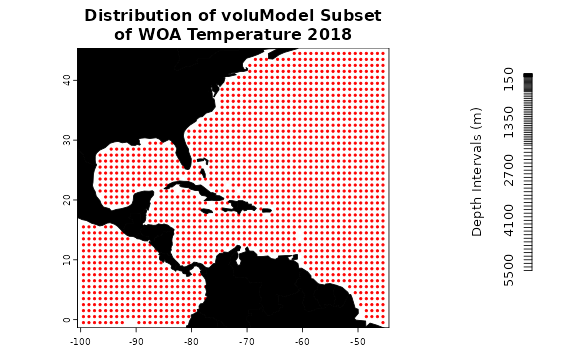
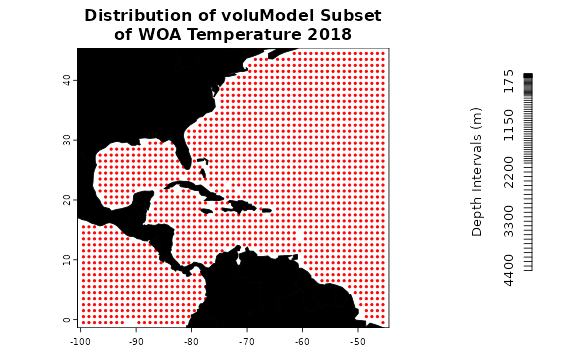
Deploying to gh-pages from @ hannahlowens/voluModel@53969cd89ce091f5b6bab9e4a05de719ce7b85b1 🚀

Changed region(s): [[0.8645, 0.1833, 0.9262, 0.7333], [0.8645, 0.7639, 0.8954, 0.7944]]

diff --git a/articles/b_RasterProcessing.html b/articles/b_RasterProcessing.html
@@ -100,7 +100,7 @@ Owens</h4>
                         <h4 data-toc-skip class="author">Carsten
 Rahbek</h4>
             
-            <h4 data-toc-skip class="date">2025-06-24</h4>
+            <h4 data-toc-skip class="date">2025-07-09</h4>
       
       <small class="dont-index">Source: <a href="https://github.com/hannahlowens/voluModel/blob/main/vignettes/b_RasterProcessing.Rmd" class="external-link"><code>vignettes/b_RasterProcessing.Rmd</code></a></small>
       <div class="hidden name"><code>b_RasterProcessing.Rmd</code></div>
@@ -207,14 +207,7 @@ structures.</p>
 <span><span class="co">## 4    NaN    NaN    NaN    NaN    NaN    NaN    NaN    NaN    NaN    NaN    NaN</span></span>
 <span><span class="co">## 5    NaN    NaN    NaN    NaN    NaN    NaN    NaN    NaN    NaN    NaN    NaN</span></span>
 <span><span class="co">## 6    NaN    NaN    NaN    NaN    NaN    NaN    NaN    NaN    NaN    NaN    NaN</span></span>
-<span><span class="co">##   d4400M d4500M d4600M d4700M d4800M d4900M d5000M d5100M d5200M d5300M d5400M</span></span>
-<span><span class="co">## 1    NaN    NaN    NaN    NaN    NaN    NaN    NaN    NaN    NaN    NaN    NaN</span></span>
-<span><span class="co">## 2    NaN    NaN    NaN    NaN    NaN    NaN    NaN    NaN    NaN    NaN    NaN</span></span>
-<span><span class="co">## 3    NaN    NaN    NaN    NaN    NaN    NaN    NaN    NaN    NaN    NaN    NaN</span></span>
-<span><span class="co">## 4    NaN    NaN    NaN    NaN    NaN    NaN    NaN    NaN    NaN    NaN    NaN</span></span>
-<span><span class="co">## 5    NaN    NaN    NaN    NaN    NaN    NaN    NaN    NaN    NaN    NaN    NaN</span></span>
-<span><span class="co">## 6    NaN    NaN    NaN    NaN    NaN    NaN    NaN    NaN    NaN    NaN    NaN</span></span>
-<span><span class="co">##   d5500M</span></span>
+<span><span class="co">##   d4400M</span></span>
 <span><span class="co">## 1    NaN</span></span>
 <span><span class="co">## 2    NaN</span></span>
 <span><span class="co">## 3    NaN</span></span>
@@ -271,7 +264,7 @@ using a uniform, high-contrast aesthetic.</p>
 <span></span>
 <span><span class="va">p2</span> <span class="op">&lt;-</span> <span class="fu"><a href="../reference/oneRasterPlot.html">oneRasterPlot</a></span><span class="op">(</span><span class="va">temperatureBottom</span>,land <span class="op">=</span> <span class="va">land</span>, landCol <span class="op">=</span> <span class="st">"black"</span>, </span>
 <span>              title <span class="op">=</span> <span class="st">"Bottom Temperature (C)"</span><span class="op">)</span></span></code></pre></div>
-<p><img src="TemperatureTopBottom.png" width="100%" height="100%"></p>
+<p><img src="b_RasterProcessing_files/figure-html/temperature%20processing-1.png"><!-- --></p>
 </div>
 <div class="section level2">
 <h2 id="interpolation">Interpolation<a class="anchor" aria-label="anchor" href="#interpolation"></a>
@@ -287,7 +280,7 @@ dense as for temperature).</p>
 <span>                  package <span class="op">=</span> <span class="st">"voluModel"</span><span class="op">)</span>,</span>
 <span>      exdir <span class="op">=</span> <span class="fu"><a href="https://rdrr.io/r/base/paste.html" class="external-link">paste0</a></span><span class="op">(</span><span class="va">td</span>, <span class="st">"/oxygen"</span><span class="op">)</span>, junkpaths <span class="op">=</span> <span class="cn">T</span><span class="op">)</span></span>
 <span></span>
-<span><span class="va">oxygen</span> <span class="op">&lt;-</span> <span class="fu"><a href="https://rspatial.github.io/terra/reference/vect.html" class="external-link">vect</a></span><span class="op">(</span><span class="fu"><a href="https://rdrr.io/r/base/paste.html" class="external-link">paste0</a></span><span class="op">(</span><span class="va">td</span>, <span class="st">"/oxygen/woa18_all_A00mn01_cropped.shp"</span><span class="op">)</span><span class="op">)</span></span>
+<span><span class="va">oxygen</span> <span class="op">&lt;-</span> <span class="fu"><a href="https://rspatial.github.io/terra/reference/vect.html" class="external-link">vect</a></span><span class="op">(</span><span class="fu"><a href="https://rdrr.io/r/base/paste.html" class="external-link">paste0</a></span><span class="op">(</span><span class="va">td</span>, <span class="st">"/oxygen/woa18_all_A00mn01_cropped.shp"</span><span class="op">)</span><span class="op">)</span><span class="op">[</span>,<span class="fl">1</span><span class="op">:</span><span class="fl">70</span><span class="op">]</span> <span class="co"># Only taking uppermost 70 depth layers, for speed</span></span>
 <span></span>
 <span><span class="fu"><a href="https://rspatial.github.io/terra/reference/plot.html" class="external-link">plot</a></span><span class="op">(</span><span class="va">oxygen</span>, main <span class="op">=</span> <span class="st">"Distribution of voluModel subset of WOA AOU 2018"</span>,</span>
 <span>     pch <span class="op">=</span> <span class="fl">20</span>, col <span class="op">=</span> <span class="st">"red"</span>, xlim <span class="op">=</span> <span class="va">ext</span><span class="op">[</span><span class="fl">1</span><span class="op">:</span><span class="fl">2</span><span class="op">]</span>, ylim <span class="op">=</span> <span class="va">ext</span><span class="op">[</span><span class="fl">3</span><span class="op">:</span><span class="fl">4</span><span class="op">]</span>, cex <span class="op">=</span> <span class="fl">.6</span><span class="op">)</span></span>
@@ -307,29 +300,121 @@ ok for your data, maybe it won’t. It depends on the data.</p>
 <span><span class="va">oxygen</span> <span class="op">&lt;-</span> <span class="fu"><a href="https://rspatial.github.io/terra/reference/rasterize.html" class="external-link">rasterize</a></span><span class="op">(</span>x <span class="op">=</span> <span class="va">oxygen</span>, y <span class="op">=</span> <span class="va">template</span>,</span>
 <span>                   field <span class="op">=</span> <span class="fu"><a href="https://rspatial.github.io/terra/reference/names.html" class="external-link">names</a></span><span class="op">(</span><span class="va">oxygen</span><span class="op">)</span><span class="op">)</span> <span class="co">#Uses same raster template as temperature</span></span>
 <span></span>
-<span><span class="kw">for</span> <span class="op">(</span><span class="va">i</span> <span class="kw">in</span> <span class="fl">1</span><span class="op">:</span><span class="fu"><a href="https://rspatial.github.io/terra/reference/dimensions.html" class="external-link">nlyr</a></span><span class="op">(</span><span class="va">oxygen</span><span class="op">)</span><span class="op">)</span><span class="op">{</span></span>
-<span>  <span class="va">oxygen</span><span class="op">[[</span><span class="va">i</span><span class="op">]</span><span class="op">]</span> <span class="op">&lt;-</span> <span class="fu"><a href="../reference/interpolateRaster.html">interpolateRaster</a></span><span class="op">(</span><span class="va">oxygen</span><span class="op">[[</span><span class="va">i</span><span class="op">]</span><span class="op">]</span>, lon.lat <span class="op">=</span> <span class="cn">T</span>, fast <span class="op">=</span> <span class="cn">T</span>, aRange <span class="op">=</span> <span class="fl">5</span><span class="op">)</span> <span class="co">#Thin plate spline interpolation</span></span>
+<span><span class="kw">for</span> <span class="op">(</span><span class="va">i</span> <span class="kw">in</span> <span class="fl">1</span><span class="op">:</span><span class="fu"><a href="https://rspatial.github.io/terra/reference/dimensions.html" class="external-link">nlyr</a></span><span class="op">(</span><span class="va">oxygen</span><span class="op">)</span><span class="op">)</span><span class="op">{</span> </span>
+<span>  <span class="va">oxygen</span><span class="op">[[</span><span class="va">i</span><span class="op">]</span><span class="op">]</span> <span class="op">&lt;-</span> <span class="fu"><a href="../reference/interpolateRaster.html">interpolateRaster</a></span><span class="op">(</span><span class="va">oxygen</span><span class="op">[[</span><span class="va">i</span><span class="op">]</span><span class="op">]</span>, lon.lat <span class="op">=</span> <span class="cn">T</span>, fast <span class="op">=</span> <span class="cn">T</span>, aRange <span class="op">=</span> <span class="fl">30</span><span class="op">)</span> <span class="co">#Thin plate spline interpolation</span></span>
 <span>  <span class="va">oxygen</span><span class="op">[[</span><span class="va">i</span><span class="op">]</span><span class="op">]</span> <span class="op">&lt;-</span> <span class="fu"><a href="https://rspatial.github.io/terra/reference/crop.html" class="external-link">crop</a></span><span class="op">(</span><span class="fu"><a href="https://rspatial.github.io/terra/reference/mask.html" class="external-link">mask</a></span><span class="op">(</span>x <span class="op">=</span> <span class="va">oxygen</span><span class="op">[[</span><span class="va">i</span><span class="op">]</span><span class="op">]</span>, </span>
 <span>                           mask <span class="op">=</span> <span class="va">temperature</span><span class="op">[[</span><span class="va">i</span><span class="op">]</span><span class="op">]</span><span class="op">)</span>, </span>
 <span>                      <span class="va">temperature</span><span class="op">[[</span><span class="va">i</span><span class="op">]</span><span class="op">]</span><span class="op">)</span></span>
-<span><span class="op">}</span></span>
-<span></span>
-<span><span class="co"># Change names to match tempT</span></span>
-<span><span class="fu"><a href="https://rspatial.github.io/terra/reference/names.html" class="external-link">names</a></span><span class="op">(</span><span class="va">oxygen</span><span class="op">)</span> <span class="op">&lt;-</span> <span class="va">envtNames</span></span></code></pre></div>
+<span><span class="op">}</span></span></code></pre></div>
+<pre><code><span><span class="co">## Warning: </span></span>
+<span><span class="co">## Grid searches over lambda (nugget and sill variances) with  minima at the endpoints: </span></span>
+<span><span class="co">##   (GCV) Generalized Cross-Validation </span></span>
+<span><span class="co">##    minimum at  right endpoint  lambda  =  0.06491755 (eff. df= 110.2 )</span></span></code></pre>
+<pre><code><span><span class="co">## Warning: </span></span>
+<span><span class="co">## Grid searches over lambda (nugget and sill variances) with  minima at the endpoints: </span></span>
+<span><span class="co">##   (GCV) Generalized Cross-Validation </span></span>
+<span><span class="co">##    minimum at  right endpoint  lambda  =  0.06660728 (eff. df= 105.45 )</span></span></code></pre>
+<pre><code><span><span class="co">## Warning: </span></span>
+<span><span class="co">## Grid searches over lambda (nugget and sill variances) with  minima at the endpoints: </span></span>
+<span><span class="co">##   (GCV) Generalized Cross-Validation </span></span>
+<span><span class="co">##    minimum at  right endpoint  lambda  =  0.0655869 (eff. df= 107.35 )</span></span>
+<span><span class="co">## Warning: </span></span>
+<span><span class="co">## Grid searches over lambda (nugget and sill variances) with  minima at the endpoints: </span></span>
+<span><span class="co">##   (GCV) Generalized Cross-Validation </span></span>
+<span><span class="co">##    minimum at  right endpoint  lambda  =  0.06730784 (eff. df= 97.84996 )</span></span></code></pre>
+<pre><code><span><span class="co">## Warning: </span></span>
+<span><span class="co">## Grid searches over lambda (nugget and sill variances) with  minima at the endpoints: </span></span>
+<span><span class="co">##   (GCV) Generalized Cross-Validation </span></span>
+<span><span class="co">##    minimum at  right endpoint  lambda  =  0.06825791 (eff. df= 94.05001 )</span></span>
+<span><span class="co">## Warning: </span></span>
+<span><span class="co">## Grid searches over lambda (nugget and sill variances) with  minima at the endpoints: </span></span>
+<span><span class="co">##   (GCV) Generalized Cross-Validation </span></span>
+<span><span class="co">##    minimum at  right endpoint  lambda  =  0.06692045 (eff. df= 100.7 )</span></span></code></pre>
+<pre><code><span><span class="co">## Warning: </span></span>
+<span><span class="co">## Grid searches over lambda (nugget and sill variances) with  minima at the endpoints: </span></span>
+<span><span class="co">##   (GCV) Generalized Cross-Validation </span></span>
+<span><span class="co">##    minimum at  right endpoint  lambda  =  0.06908389 (eff. df= 92.14998 )</span></span>
+<span><span class="co">## Warning: </span></span>
+<span><span class="co">## Grid searches over lambda (nugget and sill variances) with  minima at the endpoints: </span></span>
+<span><span class="co">##   (GCV) Generalized Cross-Validation </span></span>
+<span><span class="co">##    minimum at  right endpoint  lambda  =  0.06534119 (eff. df= 106.4 )</span></span>
+<span><span class="co">## Warning: </span></span>
+<span><span class="co">## Grid searches over lambda (nugget and sill variances) with  minima at the endpoints: </span></span>
+<span><span class="co">##   (GCV) Generalized Cross-Validation </span></span>
+<span><span class="co">##    minimum at  right endpoint  lambda  =  0.06698453 (eff. df= 101.65 )</span></span></code></pre>
+<div class="sourceCode" id="cb13"><pre class="downlit sourceCode r">
+<code class="sourceCode R"><span><span class="co"># Change names to match tempT</span></span>
+<span><span class="fu"><a href="https://rspatial.github.io/terra/reference/names.html" class="external-link">names</a></span><span class="op">(</span><span class="va">oxygen</span><span class="op">)</span> <span class="op">&lt;-</span> <span class="va">envtNames</span><span class="op">[</span><span class="fl">1</span><span class="op">:</span><span class="fl">70</span><span class="op">]</span></span></code></pre></div>
 <p>Some environmental data rasters may also look “patchy”, possibly as
 an artifact of uneven sampling. If you are confident that there should
 be a strong spatial correlation in a data layer that looks “patchy”, you
 can also statistically smooth it, again using <code>TPS()</code>, like
 this:</p>
-<div class="sourceCode" id="cb8"><pre class="downlit sourceCode r">
+<div class="sourceCode" id="cb14"><pre class="downlit sourceCode r">
 <code class="sourceCode R"><span><span class="co"># Smoothing tempO and saving</span></span>
 <span><span class="va">oxygenSmooth</span> <span class="op">&lt;-</span> <span class="va">oxygen</span></span>
 <span><span class="kw">for</span> <span class="op">(</span><span class="va">i</span> <span class="kw">in</span> <span class="fl">1</span><span class="op">:</span><span class="fu"><a href="https://rspatial.github.io/terra/reference/dimensions.html" class="external-link">nlyr</a></span><span class="op">(</span><span class="va">oxygenSmooth</span><span class="op">)</span><span class="op">)</span><span class="op">{</span></span>
 <span>  <span class="va">oxygenSmooth</span><span class="op">[[</span><span class="va">i</span><span class="op">]</span><span class="op">]</span> <span class="op">&lt;-</span> <span class="fu"><a href="../reference/smoothRaster.html">smoothRaster</a></span><span class="op">(</span><span class="va">oxygenSmooth</span><span class="op">[[</span><span class="va">i</span><span class="op">]</span><span class="op">]</span>, lon.lat <span class="op">=</span> <span class="cn">T</span><span class="op">)</span> <span class="co">#Thin plate spline interpolation</span></span>
 <span>  <span class="va">oxygenSmooth</span><span class="op">[[</span><span class="va">i</span><span class="op">]</span><span class="op">]</span> <span class="op">&lt;-</span> <span class="fu"><a href="https://rspatial.github.io/terra/reference/crop.html" class="external-link">crop</a></span><span class="op">(</span><span class="fu"><a href="https://rspatial.github.io/terra/reference/mask.html" class="external-link">mask</a></span><span class="op">(</span>x <span class="op">=</span> <span class="va">oxygenSmooth</span><span class="op">[[</span><span class="va">i</span><span class="op">]</span><span class="op">]</span>, mask <span class="op">=</span> <span class="va">temperature</span><span class="op">[[</span><span class="va">i</span><span class="op">]</span><span class="op">]</span><span class="op">)</span>, <span class="va">temperature</span><span class="op">[[</span><span class="va">i</span><span class="op">]</span><span class="op">]</span><span class="op">)</span></span>
-<span><span class="op">}</span></span>
-<span></span>
-<span><span class="co"># Change names to match tempT and save</span></span>
+<span><span class="op">}</span></span></code></pre></div>
+<pre><code><span><span class="co">## Warning: </span></span>
+<span><span class="co">## Grid searches over lambda (nugget and sill variances) with  minima at the endpoints: </span></span>
+<span><span class="co">##   (GCV) Generalized Cross-Validation </span></span>
+<span><span class="co">##    minimum at  right endpoint  lambda  =  0.06244986 (eff. df= 122.55 )</span></span>
+<span><span class="co">## Warning: </span></span>
+<span><span class="co">## Grid searches over lambda (nugget and sill variances) with  minima at the endpoints: </span></span>
+<span><span class="co">##   (GCV) Generalized Cross-Validation </span></span>
+<span><span class="co">##    minimum at  right endpoint  lambda  =  0.06326617 (eff. df= 114.0074 )</span></span>
+<span><span class="co">## Warning: </span></span>
+<span><span class="co">## Grid searches over lambda (nugget and sill variances) with  minima at the endpoints: </span></span>
+<span><span class="co">##   (GCV) Generalized Cross-Validation </span></span>
+<span><span class="co">##    minimum at  right endpoint  lambda  =  0.06326617 (eff. df= 114.0074 )</span></span>
+<span><span class="co">## Warning: </span></span>
+<span><span class="co">## Grid searches over lambda (nugget and sill variances) with  minima at the endpoints: </span></span>
+<span><span class="co">##   (GCV) Generalized Cross-Validation </span></span>
+<span><span class="co">##    minimum at  right endpoint  lambda  =  0.06373437 (eff. df= 113.05 )</span></span>
+<span><span class="co">## Warning: </span></span>
+<span><span class="co">## Grid searches over lambda (nugget and sill variances) with  minima at the endpoints: </span></span>
+<span><span class="co">##   (GCV) Generalized Cross-Validation </span></span>
+<span><span class="co">##    minimum at  right endpoint  lambda  =  0.06373437 (eff. df= 113.05 )</span></span>
+<span><span class="co">## Warning: </span></span>
+<span><span class="co">## Grid searches over lambda (nugget and sill variances) with  minima at the endpoints: </span></span>
+<span><span class="co">##   (GCV) Generalized Cross-Validation </span></span>
+<span><span class="co">##    minimum at  right endpoint  lambda  =  0.06463537 (eff. df= 111.15 )</span></span>
+<span><span class="co">## Warning: </span></span>
+<span><span class="co">## Grid searches over lambda (nugget and sill variances) with  minima at the endpoints: </span></span>
+<span><span class="co">##   (GCV) Generalized Cross-Validation </span></span>
+<span><span class="co">##    minimum at  right endpoint  lambda  =  0.06463537 (eff. df= 111.15 )</span></span>
+<span><span class="co">## Warning: </span></span>
+<span><span class="co">## Grid searches over lambda (nugget and sill variances) with  minima at the endpoints: </span></span>
+<span><span class="co">##   (GCV) Generalized Cross-Validation </span></span>
+<span><span class="co">##    minimum at  right endpoint  lambda  =  0.06463537 (eff. df= 111.15 )</span></span>
+<span><span class="co">## Warning: </span></span>
+<span><span class="co">## Grid searches over lambda (nugget and sill variances) with  minima at the endpoints: </span></span>
+<span><span class="co">##   (GCV) Generalized Cross-Validation </span></span>
+<span><span class="co">##    minimum at  right endpoint  lambda  =  0.06463537 (eff. df= 111.15 )</span></span>
+<span><span class="co">## Warning: </span></span>
+<span><span class="co">## Grid searches over lambda (nugget and sill variances) with  minima at the endpoints: </span></span>
+<span><span class="co">##   (GCV) Generalized Cross-Validation </span></span>
+<span><span class="co">##    minimum at  right endpoint  lambda  =  0.06508891 (eff. df= 110.2 )</span></span>
+<span><span class="co">## Warning: </span></span>
+<span><span class="co">## Grid searches over lambda (nugget and sill variances) with  minima at the endpoints: </span></span>
+<span><span class="co">##   (GCV) Generalized Cross-Validation </span></span>
+<span><span class="co">##    minimum at  right endpoint  lambda  =  0.06520346 (eff. df= 109.25 )</span></span>
+<span><span class="co">## Warning: </span></span>
+<span><span class="co">## Grid searches over lambda (nugget and sill variances) with  minima at the endpoints: </span></span>
+<span><span class="co">##   (GCV) Generalized Cross-Validation </span></span>
+<span><span class="co">##    minimum at  right endpoint  lambda  =  0.06521743 (eff. df= 108.2996 )</span></span>
+<span><span class="co">## Warning: </span></span>
+<span><span class="co">## Grid searches over lambda (nugget and sill variances) with  minima at the endpoints: </span></span>
+<span><span class="co">##   (GCV) Generalized Cross-Validation </span></span>
+<span><span class="co">##    minimum at  right endpoint  lambda  =  0.06514298 (eff. df= 107.3498 )</span></span>
+<span><span class="co">## Warning: </span></span>
+<span><span class="co">## Grid searches over lambda (nugget and sill variances) with  minima at the endpoints: </span></span>
+<span><span class="co">##   (GCV) Generalized Cross-Validation </span></span>
+<span><span class="co">##    minimum at  right endpoint  lambda  =  0.0654606 (eff. df= 106.4 )</span></span></code></pre>
+<div class="sourceCode" id="cb16"><pre class="downlit sourceCode r">
+<code class="sourceCode R"><span><span class="co"># Change names to match tempT and save</span></span>
 <span><span class="fu"><a href="https://rspatial.github.io/terra/reference/names.html" class="external-link">names</a></span><span class="op">(</span><span class="va">oxygenSmooth</span><span class="op">)</span> <span class="op">&lt;-</span> <span class="fu"><a href="https://rspatial.github.io/terra/reference/names.html" class="external-link">names</a></span><span class="op">(</span><span class="va">oxygen</span><span class="op">)</span></span>
 <span><span class="va">oxygenSmooth</span> <span class="op">&lt;-</span> <span class="va">oxygenSmooth</span></span>
 <span></span>
@@ -338,14 +423,14 @@ this:</p>
 <span>              title<span class="op">=</span> <span class="st">"Surface Apparent Oxygen Utilization (µmol/kg),\ninterpolated"</span><span class="op">)</span></span>
 <span><span class="va">p4</span> <span class="op">&lt;-</span> <span class="fu"><a href="../reference/oneRasterPlot.html">oneRasterPlot</a></span><span class="op">(</span><span class="va">oxygenSmooth</span><span class="op">[[</span><span class="fl">1</span><span class="op">]</span><span class="op">]</span>, land <span class="op">=</span> <span class="va">land</span>, landCol <span class="op">=</span> <span class="st">"black"</span>,</span>
 <span>     title <span class="op">=</span> <span class="st">"Bottom Apparent Oxygen Utilization (µmol/kg),\ninterpolated and smoothed"</span><span class="op">)</span></span></code></pre></div>
-<p><img src="AOUInterpAndSmooth.png" width="100%" height="100%"></p>
+<p><img src="b_RasterProcessing_files/figure-html/smoothing%20oxygen-1.png"><!-- --></p>
 </div>
 <div class="section level2">
 <h2 id="tidying-up">Tidying up<a class="anchor" aria-label="anchor" href="#tidying-up"></a>
 </h2>
 <p>Last, we need to close the temporary directory we opened when we
 opened the data.</p>
-<div class="sourceCode" id="cb9"><pre class="downlit sourceCode r">
+<div class="sourceCode" id="cb17"><pre class="downlit sourceCode r">
 <code class="sourceCode R"><span><span class="fu"><a href="https://rdrr.io/r/base/unlink.html" class="external-link">unlink</a></span><span class="op">(</span><span class="va">td</span>, recursive <span class="op">=</span> <span class="cn">T</span><span class="op">)</span></span></code></pre></div>
 </div>
 <div class="section level2">

diff --git a/articles/a_Introduction.html b/articles/a_Introduction.html
@@ -101,7 +101,7 @@ Owens</h4>
                         <h4 data-toc-skip class="author">Carsten
 Rahbek</h4>
             
-            <h4 data-toc-skip class="date">2025-06-24</h4>
+            <h4 data-toc-skip class="date">2025-07-09</h4>
       
       <small class="dont-index">Source: <a href="https://github.com/hannahlowens/voluModel/blob/main/vignettes/a_Introduction.Rmd" class="external-link"><code>vignettes/a_Introduction.Rmd</code></a></small>
       <div class="hidden name"><code>a_Introduction.Rmd</code></div>
@@ -204,7 +204,7 @@ make it more space-efficient.</p>
 <span></span>
 <span><span class="va">p2</span> <span class="op">&lt;-</span> <span class="fu"><a href="../reference/oneRasterPlot.html">oneRasterPlot</a></span><span class="op">(</span><span class="va">temperatureBottom</span>,land <span class="op">=</span> <span class="va">land</span>, landCol <span class="op">=</span> <span class="st">"black"</span>, </span>
 <span>              title <span class="op">=</span> <span class="st">"Bottom Temperature (C)"</span><span class="op">)</span></span></code></pre></div>
-<p><img src="TemperatureTopBottom.png" width="100%" height="100%"></p>
+<p><img src="a_Introduction_files/figure-html/plotting%20temperature-1.png"><!-- --></p>
 <p>The AOU dataset has been interpolated and smoothed using a thin plate
 spline algorithm. For more details on how to process environmental data,
 see <a href="https://hannahlowens.github.io/voluModel/articles/b_RasterProcessing.html" class="external-link">the
@@ -223,7 +223,7 @@ raster data tutorial</a>. First, we load the data.</p>
 <span>              title<span class="op">=</span> <span class="st">"Surface Apparent Oxygen Utilization (µmol/kg),\ninterpolated and smoothed"</span><span class="op">)</span></span>
 <span><span class="va">p4</span> <span class="op">&lt;-</span> <span class="fu"><a href="../reference/oneRasterPlot.html">oneRasterPlot</a></span><span class="op">(</span><span class="va">oxygenBottom</span>, land <span class="op">=</span> <span class="va">land</span>, landCol <span class="op">=</span> <span class="st">"black"</span>,</span>
 <span>     title <span class="op">=</span> <span class="st">"Bottom Apparent Oxygen Utilization (µmol/kg),\ninterpolated and smoothed"</span><span class="op">)</span></span></code></pre></div>
-<p><img src="OxygenTopBottom.png" width="100%" height="100%"></p>
+<p><img src="a_Introduction_files/figure-html/oxygen%20plotting-1.png"><!-- --></p>
 <p>Finally, we get data layer indices for each occurrence point by
 matching their depth of sampling to the appropriate environmental layer
 name.</p>

diff --git a/articles/e_GLMWorkflow.html b/articles/e_GLMWorkflow.html
@@ -100,7 +100,7 @@ Owens</h4>
                         <h4 data-toc-skip class="author">Carsten
 Rahbek</h4>
             
-            <h4 data-toc-skip class="date">2025-06-24</h4>
+            <h4 data-toc-skip class="date">2025-07-09</h4>
       
       <small class="dont-index">Source: <a href="https://github.com/hannahlowens/voluModel/blob/main/vignettes/e_GLMWorkflow.Rmd" class="external-link"><code>vignettes/e_GLMWorkflow.Rmd</code></a></small>
       <div class="hidden name"><code>e_GLMWorkflow.Rmd</code></div>
@@ -389,18 +389,18 @@ simple. How does it look?</p>
 <span><span class="co">## </span></span>
 <span><span class="co">## Coefficients:</span></span>
 <span><span class="co">##                   Estimate Std. Error z value Pr(&gt;|z|)    </span></span>
-<span><span class="co">## (Intercept)     -2.6995391  1.4389620  -1.876  0.06065 .  </span></span>
-<span><span class="co">## Temperature     -0.1429680  0.0671260  -2.130  0.03318 *  </span></span>
-<span><span class="co">## AOU             -0.0294941  0.0105264  -2.802  0.00508 ** </span></span>
-<span><span class="co">## Temperature:AOU  0.0032906  0.0007205   4.567 4.95e-06 ***</span></span>
+<span><span class="co">## (Intercept)     -3.2645548  1.6741738  -1.950   0.0512 .  </span></span>
+<span><span class="co">## Temperature     -0.1152855  0.0768305  -1.501   0.1335    </span></span>
+<span><span class="co">## AOU             -0.0263995  0.0114247  -2.311   0.0208 *  </span></span>
+<span><span class="co">## Temperature:AOU  0.0032430  0.0007326   4.426 9.58e-06 ***</span></span>
 <span><span class="co">## ---</span></span>
 <span><span class="co">## Signif. codes:  0 '***' 0.001 '**' 0.01 '*' 0.05 '.' 0.1 ' ' 1</span></span>
 <span><span class="co">## </span></span>
 <span><span class="co">## (Dispersion parameter for binomial family taken to be 1)</span></span>
 <span><span class="co">## </span></span>
 <span><span class="co">##     Null deviance: 291.73  on 2625  degrees of freedom</span></span>
-<span><span class="co">## Residual deviance: 253.48  on 2622  degrees of freedom</span></span>
-<span><span class="co">## AIC: 261.48</span></span>
+<span><span class="co">## Residual deviance: 251.70  on 2622  degrees of freedom</span></span>
+<span><span class="co">## AIC: 259.7</span></span>
 <span><span class="co">## </span></span>
 <span><span class="co">## Number of Fisher Scoring iterations: 8</span></span></code></pre>
 <p>Now we project the model back into geographic space; at this stage,

diff --git a/articles/c_DataSampling.html b/articles/c_DataSampling.html
@@ -100,7 +100,7 @@ Owens</h4>
                         <h4 data-toc-skip class="author">Carsten
 Rahbek</h4>
             
-            <h4 data-toc-skip class="date">2025-06-24</h4>
+            <h4 data-toc-skip class="date">2025-07-09</h4>
       
       <small class="dont-index">Source: <a href="https://github.com/hannahlowens/voluModel/blob/main/vignettes/c_DataSampling.Rmd" class="external-link"><code>vignettes/c_DataSampling.Rmd</code></a></small>
       <div class="hidden name"><code>c_DataSampling.Rmd</code></div>
@@ -227,14 +227,7 @@ a <code>SpatVector</code>:</p>
 <span><span class="co">## 4    NaN    NaN    NaN    NaN    NaN    NaN    NaN    NaN    NaN    NaN    NaN</span></span>
 <span><span class="co">## 5    NaN    NaN    NaN    NaN    NaN    NaN    NaN    NaN    NaN    NaN    NaN</span></span>
 <span><span class="co">## 6    NaN    NaN    NaN    NaN    NaN    NaN    NaN    NaN    NaN    NaN    NaN</span></span>
-<span><span class="co">##   d4400M d4500M d4600M d4700M d4800M d4900M d5000M d5100M d5200M d5300M d5400M</span></span>
-<span><span class="co">## 1    NaN    NaN    NaN    NaN    NaN    NaN    NaN    NaN    NaN    NaN    NaN</span></span>
-<span><span class="co">## 2    NaN    NaN    NaN    NaN    NaN    NaN    NaN    NaN    NaN    NaN    NaN</span></span>
-<span><span class="co">## 3    NaN    NaN    NaN    NaN    NaN    NaN    NaN    NaN    NaN    NaN    NaN</span></span>
-<span><span class="co">## 4    NaN    NaN    NaN    NaN    NaN    NaN    NaN    NaN    NaN    NaN    NaN</span></span>
-<span><span class="co">## 5    NaN    NaN    NaN    NaN    NaN    NaN    NaN    NaN    NaN    NaN    NaN</span></span>
-<span><span class="co">## 6    NaN    NaN    NaN    NaN    NaN    NaN    NaN    NaN    NaN    NaN    NaN</span></span>
-<span><span class="co">##   d5500M</span></span>
+<span><span class="co">##   d4400M</span></span>
 <span><span class="co">## 1    NaN</span></span>
 <span><span class="co">## 2    NaN</span></span>
 <span><span class="co">## 3    NaN</span></span>

diff --git a/articles/d_Visualization.html b/articles/d_Visualization.html
@@ -100,7 +100,7 @@ Owens</h4>
                         <h4 data-toc-skip class="author">Carsten
 Rahbek</h4>
             
-            <h4 data-toc-skip class="date">2025-06-24</h4>
+            <h4 data-toc-skip class="date">2025-07-09</h4>
       
       <small class="dont-index">Source: <a href="https://github.com/hannahlowens/voluModel/blob/main/vignettes/d_Visualization.Rmd" class="external-link"><code>vignettes/d_Visualization.Rmd</code></a></small>
       <div class="hidden name"><code>d_Visualization.Rmd</code></div>
